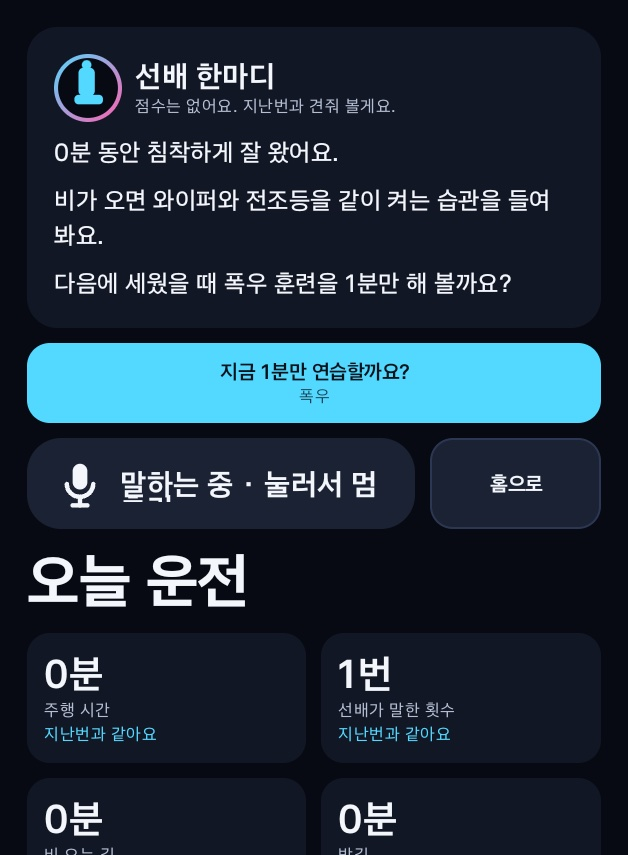
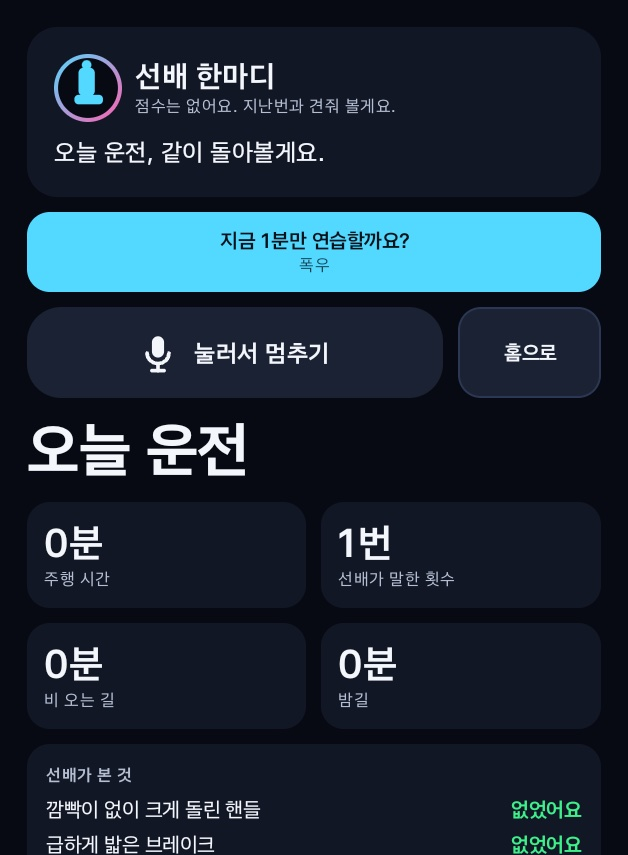
통합: README 실행 방법에 -allow-host-audio, 폼 팩터 리뷰 캡처를 수정본으로 교체

diff --git a/docs/STATUS.md b/docs/STATUS.md
@@ -1,6 +1,6 @@
 # 진행 상황
 
-> **최종 빌드 (2026-11-13 06:57, dev-integration)**: 소스 기준 `e10f0d1`(ui a7d894b 질문하기 버튼 수정 포함, vehicle 6b80523·voice 5f76c80). `./gradlew :core:test` 77개·`:app:testDebugUnitTest` 57개 통과. `apk/MoodLab_SideSeat_release.apk` 22,839,355바이트(22.8 MB), 06:57 빌드. release 스모크(에뮬레이터, 크래시 0): C1 폭우 ★3·김서림 ★3 → D단 코치 K01 → P단 규칙 기반 리뷰(첫 문장 2.6초). 06:22 빌드(5f76c80)에서는 급정거 ★1·금고 다이얼 8.1초까지 확인(`v3_*.jpg`). 디버그 빌드로 Claude 질문 3회: 채움말 0.61~0.64초, 실제 답 시작 1.31 / 1.34 / 1.72초. 폼 팩터 12.9″ 세로·14.6″ 가로 확인(`ff_*.jpg`). 에뮬레이터는 `-allow-host-audio -crash-report-mode never`로 켜져 있음.
+> **최종 빌드 (2026-11-13 06:57, dev-integration, APK 커밋 `7d5e8f7`)**: 소스 기준 `e10f0d1`(ui a7d894b 질문하기 버튼 수정 포함, vehicle 6b80523·voice 5f76c80). `./gradlew :core:test` 77개·`:app:testDebugUnitTest` 57개 통과. `apk/MoodLab_SideSeat_release.apk` 22,839,355바이트(22.8 MB), 06:57 빌드. release 스모크(에뮬레이터, 크래시 0): C1 폭우 ★3·김서림 ★3 → D단 코치 K01 → P단 규칙 기반 리뷰(첫 문장 2.6초). 06:22 빌드(5f76c80)에서는 급정거 ★1·금고 다이얼 8.1초까지 확인(`v3_*.jpg`). 디버그 빌드로 Claude 질문 3회: 채움말 0.61~0.64초, 실제 답 시작 1.31 / 1.34 / 1.72초. 폼 팩터 12.9″ 세로·14.6″ 가로 확인(`ff_*.jpg`). 에뮬레이터는 `-allow-host-audio -crash-report-mode never`로 켜져 있음.
 
 ## 옆자리(SideSeat) 통합 검증 — 완료 조건 장면 (2026-11-13, dev-integration)
 
@@ -77,7 +77,7 @@
 | Connect-S 12.9″ · 160 DPI · Portrait → 628×855 px | 628×855, 160 dpi | `adb emu multidisplay add 2 628 855 160 0` |
 | Connect-S 14.6″ · 200 DPI · Landscape → 1700×1185 px(1360×948 dp) | 1700×1185, 200 dpi | `adb emu multidisplay add 2 1700 1185 200 0` |
 
-앱은 `adb shell am start --display <id>`로 띄우고(14.6″은 디스플레이 id 3), 화면은 `adb emu screenrecord screenshot <폴더> --display 2`로 캡처했다. 홈·훈련(폭우 발생·성공)·코치·코치 K01·리뷰를 두 크기 모두 확인: `ff_12.9_portrait_*.jpg`, `ff_14.6_landscape_*.jpg`. 잘림 1건: 두 크기 모두 리뷰 화면 TalkButton 글자("말하는 중 · 눌러서 멈추기")가 잘림 → dev-sim-ui에 넘김. 나머지 화면은 잘림·겹침 없음. **수정 확인(ui a7d894b)**: 같은 두 크기에서 홈·코치·리뷰의 말하는 중 상태를 다시 찍어 "눌러서 멈추기"가 잘리지 않음을 확인(`ff_12.9_portrait_{home,coach,review}_speaking.jpg`, `ff_14.6_landscape_{home,coach,review}_speaking.jpg`).
+앱은 `adb shell am start --display <id>`로 띄우고(14.6″은 디스플레이 id 3), 화면은 `adb emu screenrecord screenshot <폴더> --display 2`로 캡처했다. 홈·훈련(폭우 발생·성공)·코치·코치 K01·리뷰를 두 크기 모두 확인: `ff_12.9_portrait_*.jpg`, `ff_14.6_landscape_*.jpg`. 잘림 1건: 두 크기 모두 리뷰 화면 TalkButton 글자("말하는 중 · 눌러서 멈추기")가 잘림 → dev-sim-ui에 넘김. 나머지 화면은 잘림·겹침 없음. **수정 확인(ui a7d894b)**: 같은 두 크기에서 홈·코치·리뷰의 말하는 중 상태를 다시 찍어 "눌러서 멈추기"가 잘리지 않음을 확인(`ff_12.9_portrait_{home,coach,review}_speaking.jpg`, `ff_14.6_landscape_{home,coach,review}_speaking.jpg`). `ff_12.9_portrait_review.jpg`·`ff_14.6_landscape_review.jpg`도 수정 뒤 캡처로 교체.
 
 **차량 마이크 STT `request()`: 불가(사람 목소리 필요), 원인은 확인.**
 

diff --git a/README.md b/README.md
@@ -36,7 +36,11 @@
 
 ### APK로 바로
 
-1. Pleos Connect Emulator 2.1.0을 cold boot로 켜요.
+1. Pleos Connect Emulator 2.1.0을 cold boot로, 호스트 마이크 소리를 받도록 켜요(옵션이 없으면 에뮬레이터가 마이크 입력을 0으로 만들어요):
+   ```bash
+   emulator -avd Pleos_Connect_v2.1 -no-snapshot-load -allow-host-audio
+   ```
+   그다음 `adb emu avd hostmicon`으로 호스트 마이크를 켜요(Extended Controls → Microphone의 "Virtual microphone uses host audio input"과 같아요).
 2. `adb install -g apk/MoodLab_SideSeat_release.apk` (`-g`는 마이크·위치 권한을 미리 줘요. 없으면 첫 실행 때 물어봐요)
 3. 앱 목록에서 **옆자리**를 실행해요.
 
